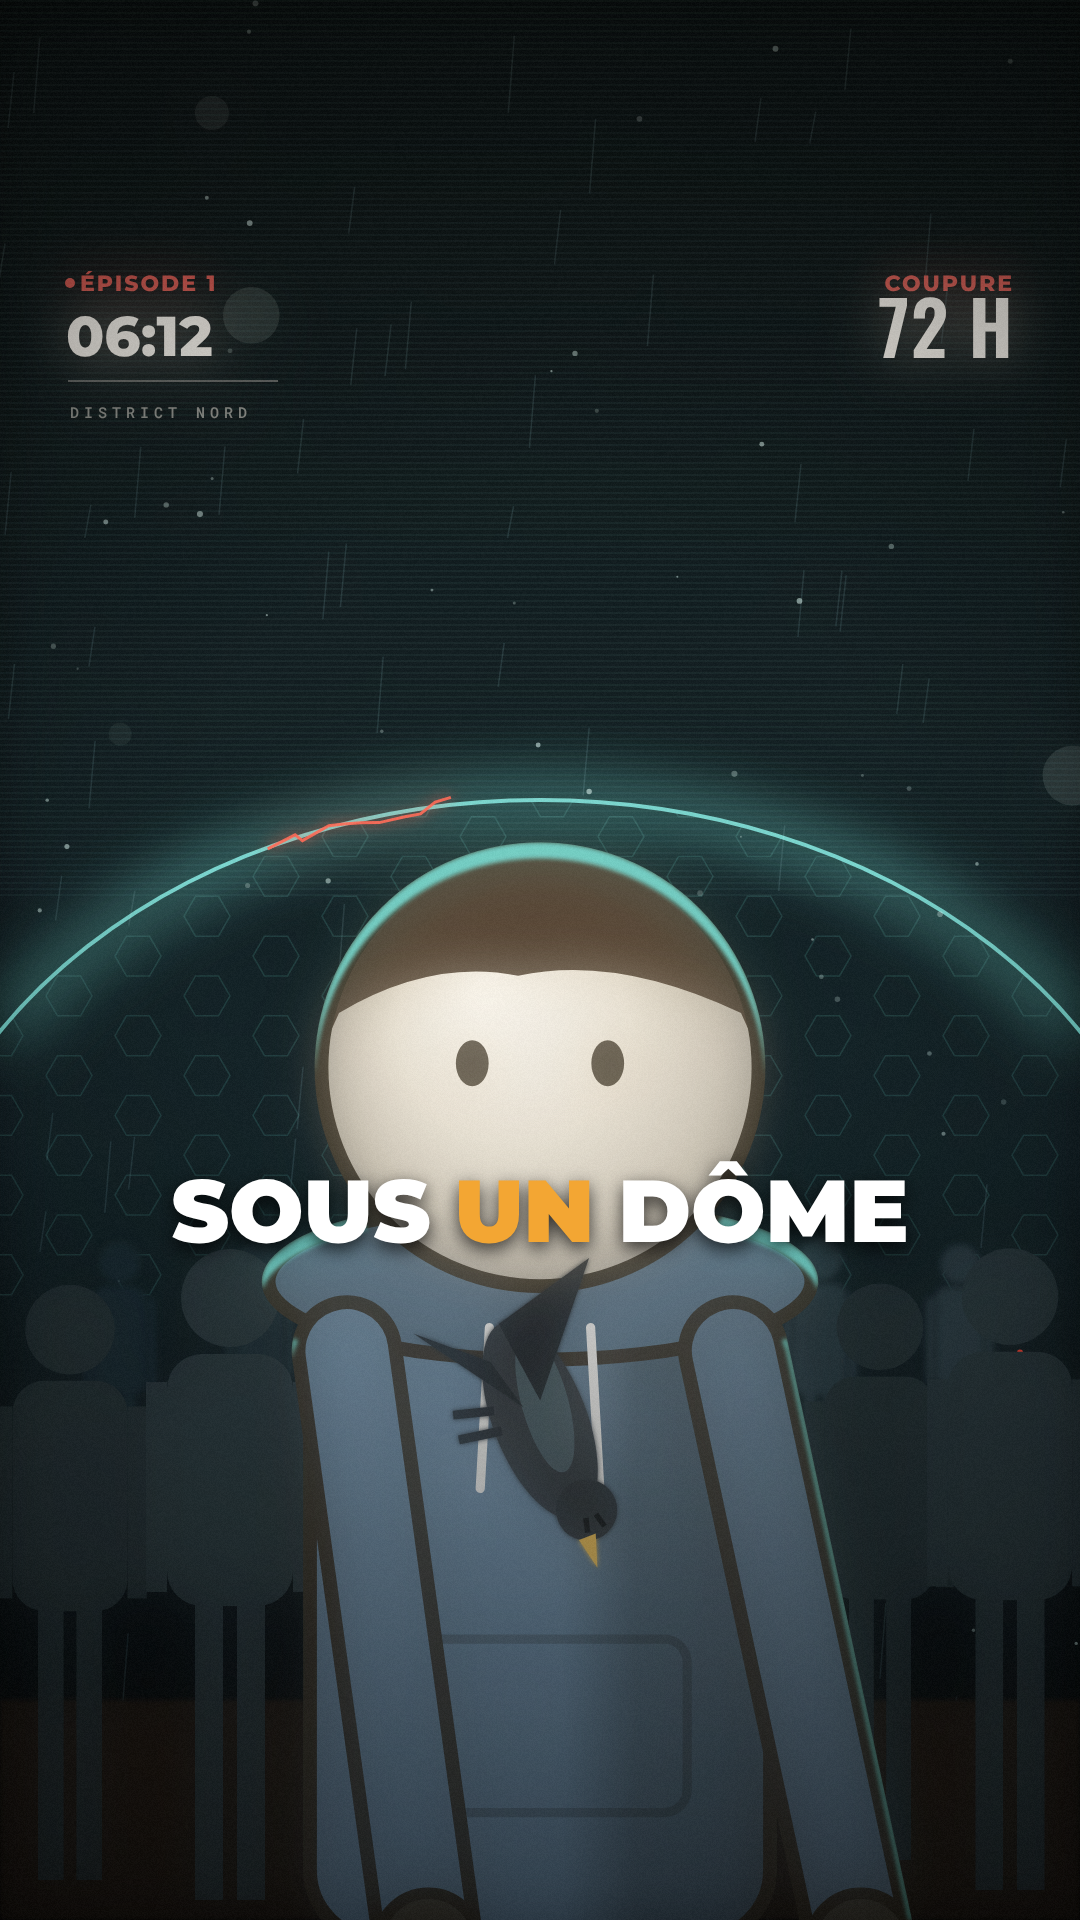
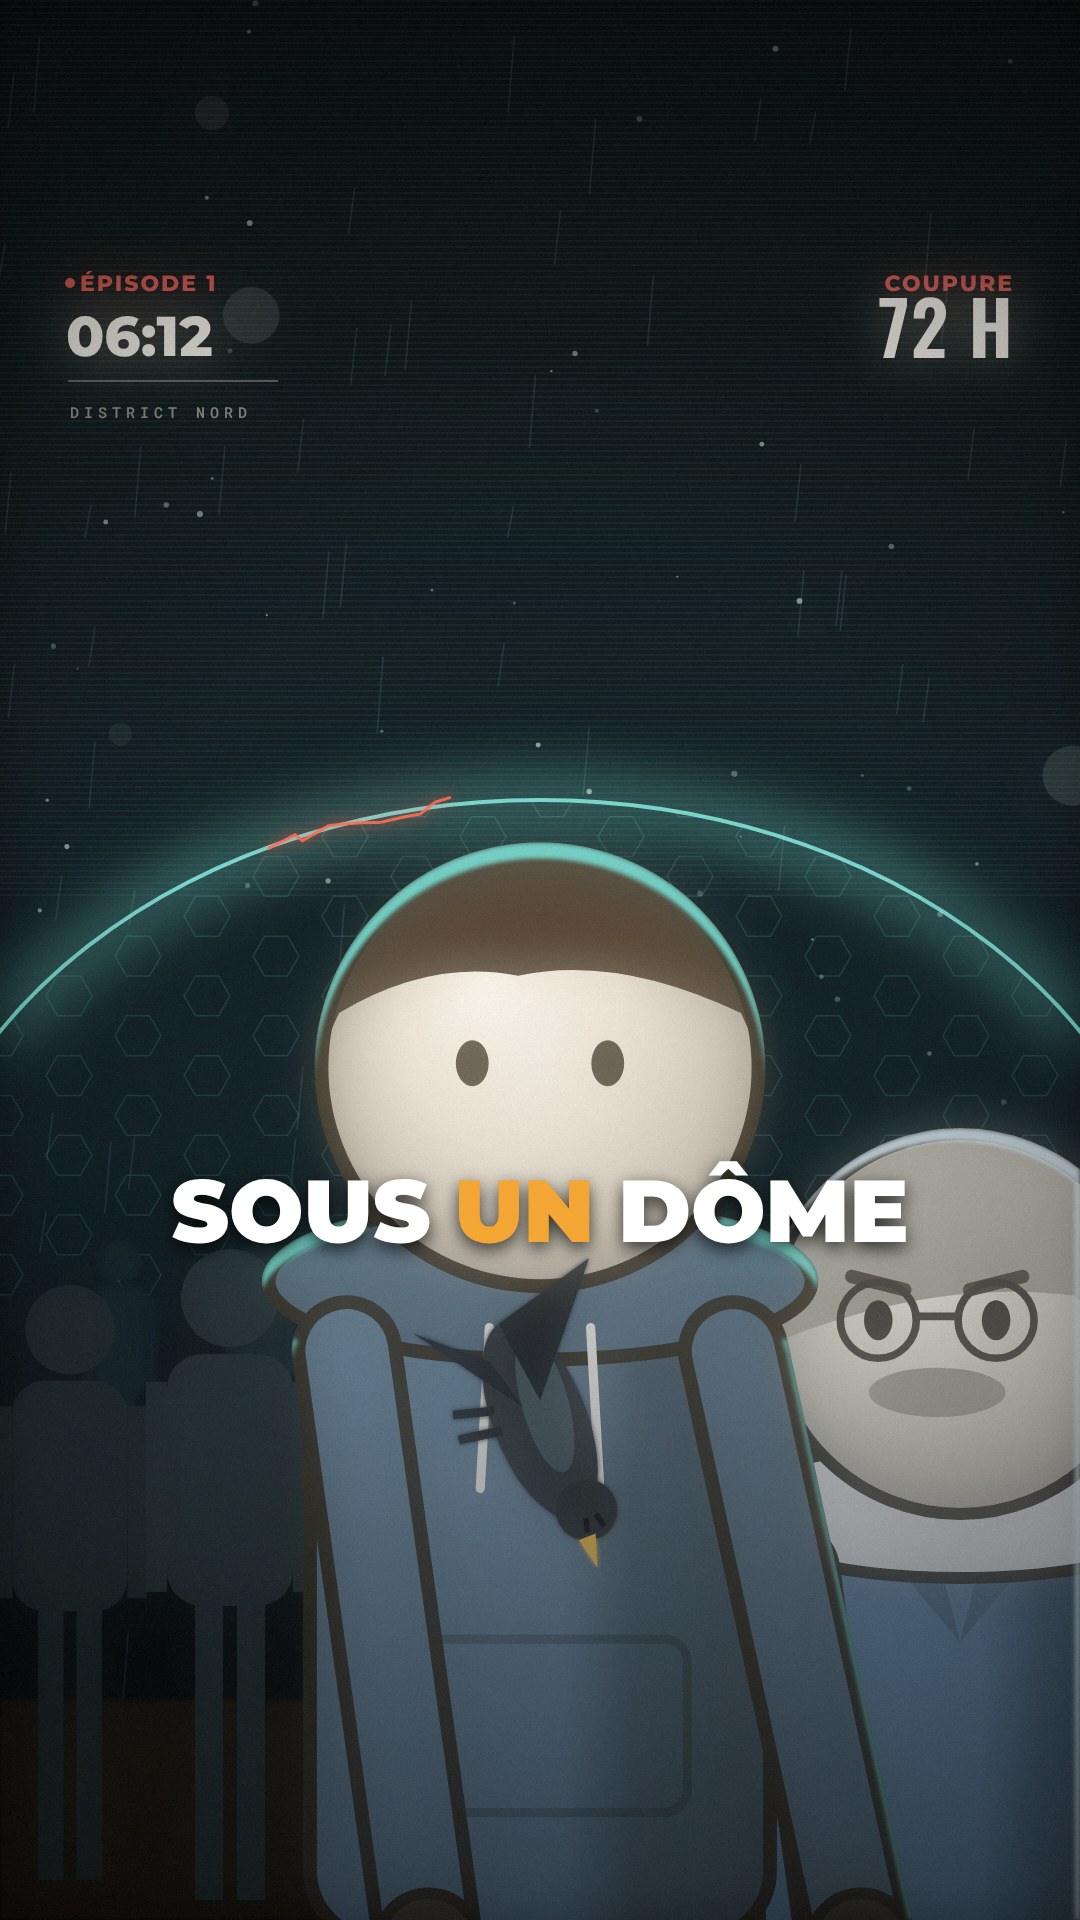
couronne-ep01 : plan 2 oiseau — père placé à droite du cadre, plus petit
Claude-Session: https://claude.ai/code/session_0151hKPePi5KPXjL7mUCuxno

Changed region(s): [[0.7028, 0.5625, 1.0, 1.0], [0.7028, 0.9688, 0.7333, 1.0]]

diff --git a/productions/couronne-ep01/rendu_v3/scenes.js b/productions/couronne-ep01/rendu_v3/scenes.js
@@ -762,6 +762,7 @@ S.p02h_buste_vivant = g => {                              // image 2 v13
   holoDome(g, 101);
   layer(g, q => { q.fillStyle = "#1b1510"; q.fillRect(0, 1700, W, H - 1700); }, { blur: 2 });
   crowdStanding(g);
+  actor(g, 960, 2700, 2.0, { ...PERE, look: -0.12, arms: [[-1, 10], [1, 10]] }, { rim: "#cfe3ee", rimAng: -1.2, rimW: 7, key: "#dfe9ef", shadow: false });   // père, côté droit
   actor(g, 540, 2650, 2.3, { ...HERO, look: 0.0, arms: [[-1, 10], [1, 10]] }, { rim: TEAL, rimAng: -1.57, rimW: 7, key: "#ffd9a0", shadow: false });
   deadBird(g, 540, 1420, 1.8, 1.2, 2.5);
   deadBird(g, 540, 1420, 1.8, 1.2);
@@ -773,6 +774,7 @@ S.p02i_sol_vivant = g => {                                // image 3 v13
   holoDome(g, 103);
   layer(g, q => { q.fillStyle = "#1b1510"; q.fillRect(0, 1700, W, H - 1700); }, { blur: 2 });
   crowdStanding(g);
+  actor(g, 960, 2700, 2.0, { ...PERE, look: -0.12, arms: [[-1, 10], [1, 10]] }, { rim: "#cfe3ee", rimAng: -1.2, rimW: 7, key: "#dfe9ef", shadow: false });   // père, côté droit
   actor(g, 540, 2650, 2.3, { ...HERO, look: 0.0, arms: [[-1, 10], [1, 10]] }, { rim: TEAL, rimAng: -1.57, rimW: 7, key: "#ffd9a0", shadow: false });
   g.fillStyle = "rgba(0,0,0,0.45)"; g.beginPath(); g.ellipse(930, 1850, 120, 16, 0, 0, 7); g.fill();
   deadBird(g, 930, 1838, 1.3, 1.5);
